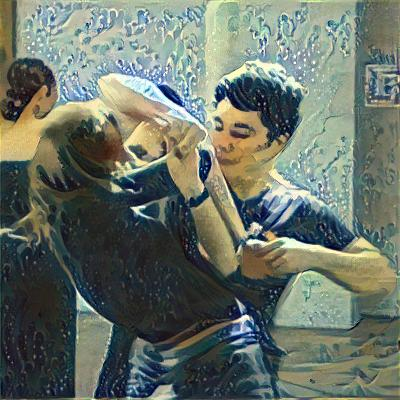
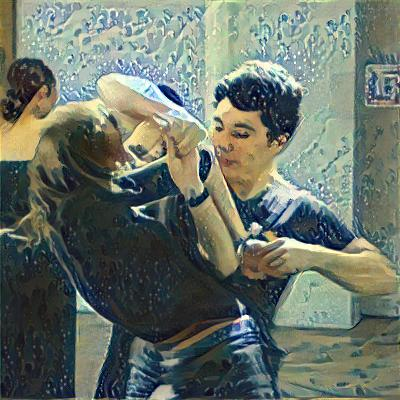
last minute fixes

diff --git a/premier_modele.py b/premier_modele.py
@@ -27,11 +27,11 @@ def imshow(tensor, title=None):
     plt.imshow(tensorToPil(tensor))
     plt.pause(0.001)
 
-#content_layers_default = ['conv_4']
-#style_layers_default = ['conv_1', 'conv_2', 'conv_3', 'conv_4', 'conv_5']
+content_layers_default = ['conv_4']
+style_layers_default = ['conv_1', 'conv_2', 'conv_3', 'conv_4', 'conv_5']
 
 #plus lent mais mieux
-content_layers_default = ['conv_16']
+content_layers_default = ['conv_12']
 style_layers_default = ['conv_2', 'conv_4', 'conv_8', 'conv_12', 'conv_16']
 
 cnn_normalization_mean = torch.tensor([0.485, 0.456, 0.406]).to(device)
@@ -223,4 +223,4 @@ content_image = image_loader(content_path)
 input_image = content_image.clone()
 
 cnn = models.vgg19(pretrained=True).features.to(device).eval()
-output = run_style_transfer(cnn,LossNet, style_image, content_image, input_image, num_steps= 500, step = 50, save = True)
+output = run_style_transfer(cnn,LossNet, style_image, content_image, input_image, num_steps= 1500, step = 50, save = True)

diff --git a/train.py b/train.py
@@ -52,6 +52,10 @@ def imshow(tensor, title=None):
 content_layers_default = ['conv_4']
 style_layers_default = ['conv_1', 'conv_2', 'conv_3', 'conv_4', 'conv_5']
 
+#plus lent mais mieux
+content_layers_default = ['conv_12']
+style_layers_default = ['conv_2', 'conv_4', 'conv_8', 'conv_12', 'conv_16']
+
 cnn_normalization_mean = torch.tensor([0.485, 0.456, 0.406]).to(device)
 cnn_normalization_std = torch.tensor([0.229, 0.224, 0.225]).to(device)
 
